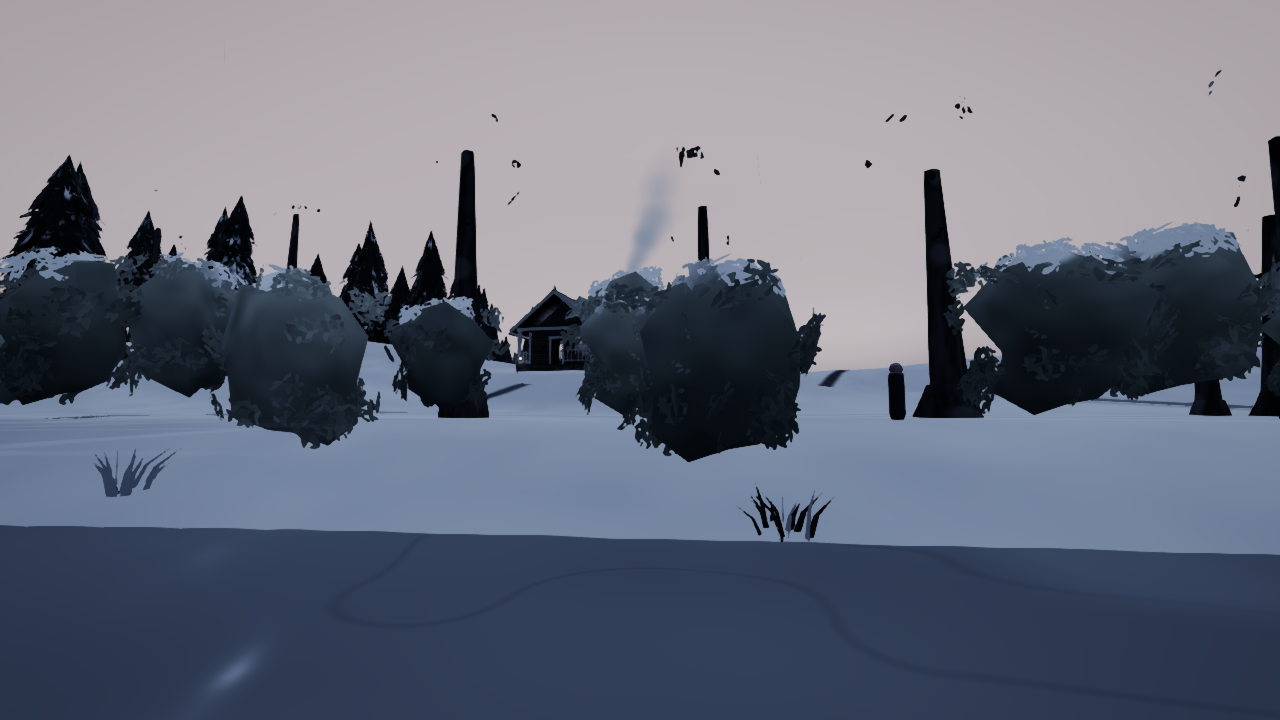
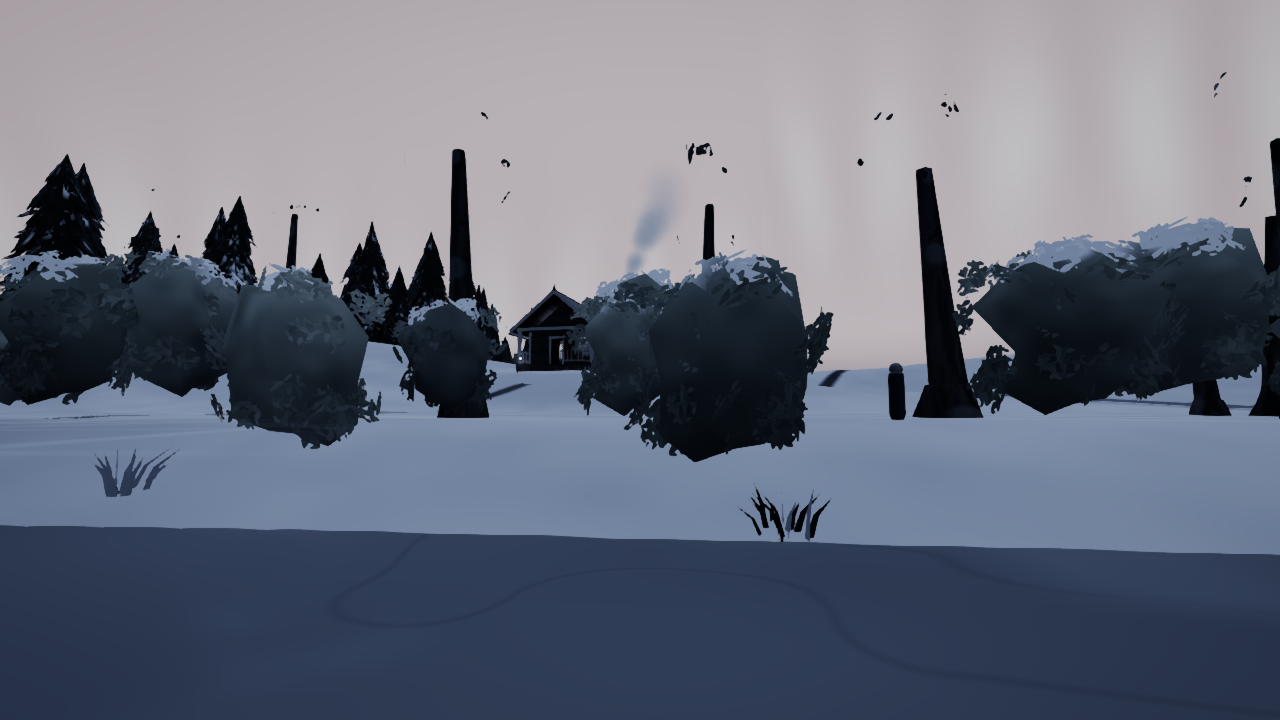
Shell climate every sixth frame; warmer heat grade; brighter aurora

diff --git a/src/sim/collapseLook.ts b/src/sim/collapseLook.ts
@@ -155,7 +155,7 @@ const PROFILES: Partial<Record<DisasterKind, Profile>> = {
   asteroid: { glow: [0.055, 0.016, 0.01], comet: 1, road: 0.3, flee: 1, fire: 0.35, smoke: 0.5, town: 0.4, townDays: 40, warn: 0.3, rise: 1, hold: 700, fade: 400, floor: 0.2, pulse: 1, cloud: 0.85, fog: 0.4, haze: 1, ash: 0.5, ashColor: GREY_ASH, dim: 0.42, tint: [0.42, 0.26, 0.16], tintAmt: 0.7, cast: [1.04, 0.94, 0.84], sat: 0.6 },
   // the slow climate kinds (years, not weeks: the look rises over about two years and holds for the run)
   // heat: a washed, yellow-white sky, a pale big sun, a low haze band at the horizon and a bleached, flat light
-  runaway_heat: { glow: [0.028, 0.02, 0.008], road: 0.4, flee: 0.5, fire: 0.2, smoke: 0.2, town: 0.6, townDays: 500, warn: 0.3, rise: 730, hold: 4000, fade: 400, floor: 0.7, cloud: 0.02, haze: 0.85, fog: 0.12, dim: 0.97, tint: [0.96, 0.92, 0.74], tintAmt: 0.5, cast: [1.1, 1.03, 0.88], sat: 0.7, contrast: -0.1 },
+  runaway_heat: { glow: [0.028, 0.02, 0.008], road: 0.4, flee: 0.5, fire: 0.2, smoke: 0.2, town: 0.6, townDays: 500, warn: 0.3, rise: 730, hold: 4000, fade: 400, floor: 0.7, cloud: 0.02, haze: 0.85, fog: 0.12, dim: 0.97, tint: [0.96, 0.92, 0.74], tintAmt: 0.5, cast: [1.15, 1.04, 0.84], sat: 0.85, contrast: -0.1 },
   // cold: a dim grey-blue sky, a low pale sun, ice fog, a cold blue horizon at night and a faint aurora
   ice_age: { glow: [0.01, 0.022, 0.045], road: 0.3, flee: 0.7, town: 0.5, townDays: 400, aurora: 0.8, warn: 0.3, rise: 700, hold: 4000, fade: 400, floor: 0.7, cloud: 0.8, haze: 0.6, fog: 0.3, dim: 0.62, tint: [0.44, 0.54, 0.7], tintAmt: 0.65, cast: [0.9, 0.98, 1.1], sat: 0.55, contrast: 0.02 },
   unknown: { glow: [0.03, 0.012, 0.055], road: 0, town: 0.5, townDays: 3, warn: 0.4, rise: 1, hold: 30, fade: 90, floor: 0.1, haze: 0.5, tint: [0.5, 0.32, 0.72], tintAmt: 0.5, cast: [1, 0.95, 1.08], sat: 0.85 },

diff --git a/src/game/GameCanvas.tsx b/src/game/GameCanvas.tsx
@@ -313,7 +313,7 @@ export function GameCanvas() {
     };
     let feltAcc = 9, hitOff = 0, hitBase = 0, hitHeld = false;
     const climOverlay: ClimateOverlay = { scorch: 0, snow: 0, freeze: 0 };
-    let shellAcc = 9;
+    let shellAcc = 6;
     const terrainOv = new TerrainOverlay(ws.scene, world.groundAt);
     const showTerrain = () => {
       const g = useGameStore.getState().game, m = useWorldStore.getState().terrainMode, t = terrainOf(g);
@@ -607,8 +607,8 @@ export function GameCanvas() {
       // the slow climate kinds bend the ground (scorched lawns, a lying snow pack, frozen still water) and the dome glass (frost, bleach)
       climOverlay.scorch = lookRaw.scorch; climOverlay.snow = lookRaw.snowCover; climOverlay.freeze = lookRaw.freeze;
       world.tick(dt, dayOfYear, totalDays, seasonMode, climOverlay, waterLockOf(lookRaw.freeze));
-      shellAcc += dt;
-      if (shellAcc >= 0.4 || renderReq.quality) {
+      // (every sixth frame: cheap, and a paused or lowrender QA clock, whose dt is tiny, still reaches it)
+      if (++shellAcc >= 6) {
         shellAcc = 0;
         const d0 = domeOf(game), st0 = d0 ? stateOf(game, d0) : null;
         setShellClimate(st0 ? shellFrostOf(st0.outF, st0.indoorF) : 0, st0 ? shellBleachOf(lookRaw.scorch, st0.outF) : 0);

diff --git a/src/engine/world/sky/ProceduralSky.ts b/src/engine/world/sky/ProceduralSky.ts
@@ -446,7 +446,7 @@ const FRAG = /* glsl */`
         float bq = (hp - (0.26 + 0.14 * sin(az3 * 1.7 + uTime * 0.04))) / 0.15;
         float band = exp(-bq * bq);
         vec3 ac = mix(vec3(0.12, 1.0, 0.42), vec3(0.85, 0.12, 0.38), smoothstep(0.32, 0.62, hp));
-        sky += ac * rays * band * (0.3 + 0.7 * wob) * uSkyB.z * 0.38 * (1.0 - 0.4 * cloudOcc) * smoothstep(0.0, 0.12, h) * (0.35 + 0.65 * uNight);
+        sky += ac * rays * band * (0.3 + 0.7 * wob) * uSkyB.z * 0.55 * (1.0 - 0.4 * cloudOcc) * smoothstep(0.0, 0.12, h) * (0.35 + 0.65 * uNight);
       }
       // Moon disc: lit from the sun's side, phase from the terminator, maria.
       vec3 md = normalize(uMoonDir);
